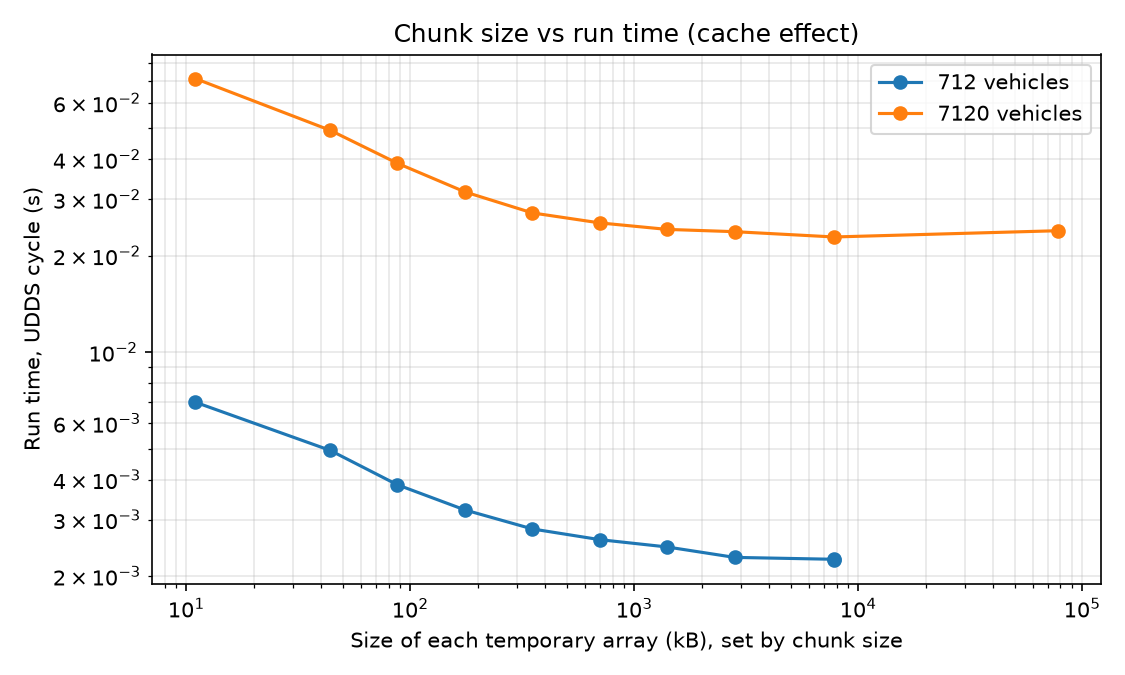
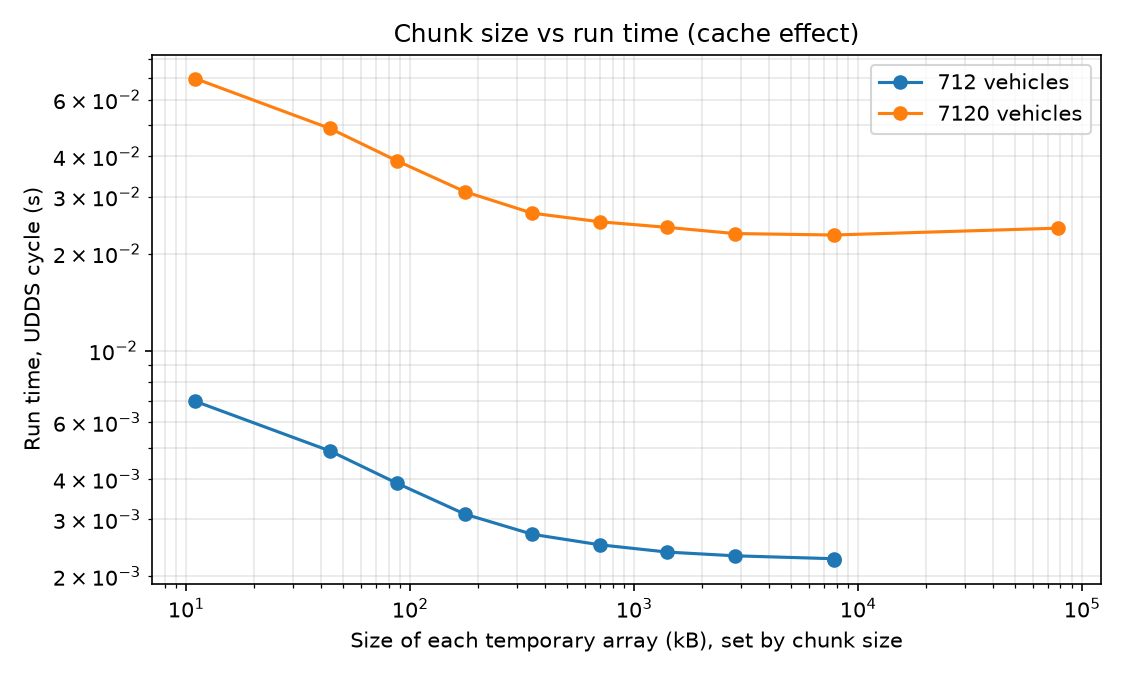
Set chunk size to 712 after measuring on target machine; keep Xeon sweep as reference

diff --git a/src/ev_energy/physics_model.py b/src/ev_energy/physics_model.py
@@ -71,11 +71,15 @@ J_PER_M_TO_KWH_PER_100MI = M_PER_100MI / J_PER_KWH
 INTEGRATORS = ("trapezoid", "simpson")
 
 #: Vehicles processed together in :func:`cycle_energy_terms`. Chosen in
-#: Stage 5 (scripts/stage5_performance.py): chunks of about 32 vehicles keep
-#: each temporary array (32 x 1370 doubles, about 350 kB) inside the CPU's
-#: L2 cache, which was 1.8 times faster than processing all 712 vehicles at
-#: once on the development machine. The best value depends on the CPU.
-DEFAULT_CHUNK_SIZE = 32
+#: Stage 5 (scripts/stage5_performance.py). The best value depends on the
+#: CPU cache: on an Intel Xeon with a 1 MB L2 cache, chunks of 32 vehicles
+#: (about 350 kB per temporary array) were fastest; on the target machine
+#: (Apple Silicon, much larger L2 cache) processing about 712 vehicles at
+#: once (about 7.8 MB per array) was fastest. 712 is used: on the target
+#: machine it matches the speed of processing everything at once, while
+#: capping memory use as the dataset grows (at 7,120 vehicles, peak memory
+#: is about 23 MB instead of 234 MB).
+DEFAULT_CHUNK_SIZE = 712
 
 
 # ---------------------------------------------------------------------------
@@ -424,10 +428,10 @@ def cycle_energy_terms(
     method : {"trapezoid", "simpson"}
         Integration rule.
     chunk_size : int or None, optional
-        Number of vehicles processed together. Processing all vehicles at
-        once (``None``) creates temporary arrays too large for the CPU cache,
-        which Stage 5 showed is slower. Chunks small enough to fit in cache
-        give identical results faster. See :data:`DEFAULT_CHUNK_SIZE`.
+        Number of vehicles processed together. ``None`` processes all at
+        once, which makes temporary arrays (and memory use) grow with the
+        number of vehicles. Any chunk size gives identical results; the
+        fastest depends on the CPU cache. See :data:`DEFAULT_CHUNK_SIZE`.
 
     Returns
     -------
